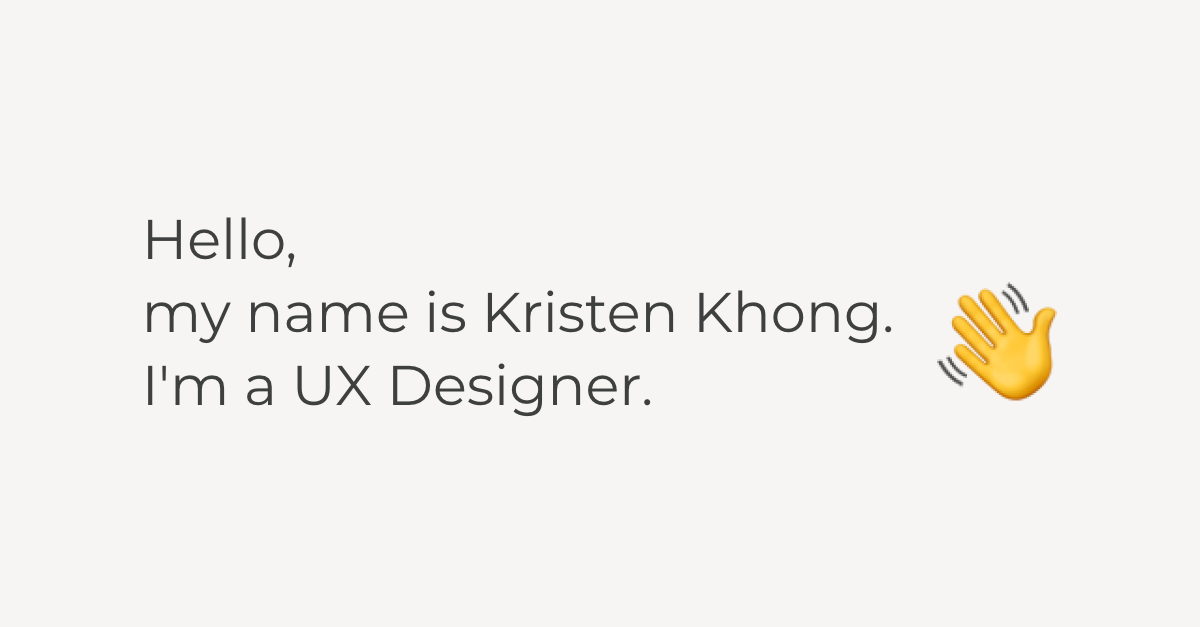
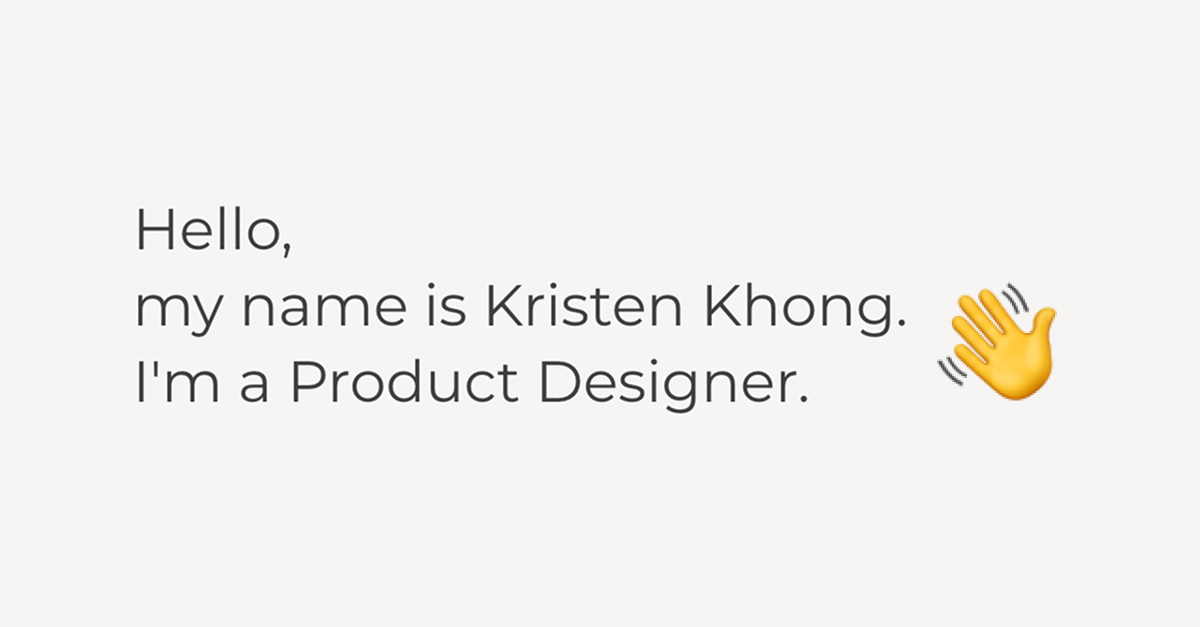
update text

Changed region(s): [[0.0925, 0.4545, 0.7708, 0.5455], [0.0925, 0.5758, 0.6783, 0.6667], [0.0925, 0.3333, 0.2467, 0.4242]]

diff --git a/index.html b/index.html
@@ -15,14 +15,14 @@
       <!-- Open Graph / Facebook -->
       <meta property="og:type" content="website">
       <meta property="og:url" content="https://kristenkhong.github.io/">
-      <meta property="og:title" content="Kristen Khong | UX Designer">
+      <meta property="og:title" content="Kristen Khong | Product Designer">
       <meta property="og:description" content="I'm Kristen Khong, this is my portfolio website.">
       <meta property="og:image" content="https://kristenkhong.github.io/meta-tag.png">
 
       <!-- Twitter -->
       <meta property="twitter:card" content="summary_large_image">
       <meta property="twitter:url" content="https://kristenkhong.github.io/">
-      <meta property="twitter:title" content="Kristen Khong | UX Designer">
+      <meta property="twitter:title" content="Kristen Khong | Product Designer">
       <meta property="twitter:description" content="I'm Kristen Khong, this is my portfolio website.">
       <meta property="twitter:image" content="https://kristenkhong.github.io/meta-tag.png">
 
@@ -54,9 +54,9 @@
           <div class="content__subheadings">
              <!--<span class="content__subheading is-md">Let's connect</span>-->
              <ul>
-              <li><a href="https://www.behance.net/KristenKhong" target="_blank">Behance</a></li>
               <li><a href="https://dribbble.com/kristenkhong" target="_blank">Dribbble</a></li>
-              <li><a href="https://www.instagram.com/kristen.khong/" target="_blank">Instagram</a></li>
+              <li><a href="https://www.instagram.com/kristen.khong" target="_blank">Instagram</a></li>
+              <li><a href="https://www.behance.net/KristenKhong" target="_blank">Behance</a></li>
               <li><a href="https://my.linkedin.com/in/kristenkhong" target="_blank">Linkedin</a></li>
               <li><a href="/contact-form.html">Contact</a></li>
             </ul>
